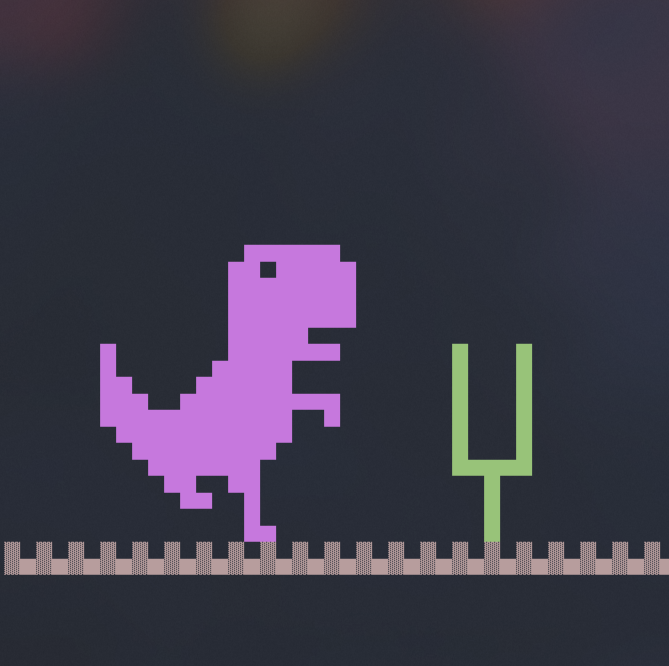
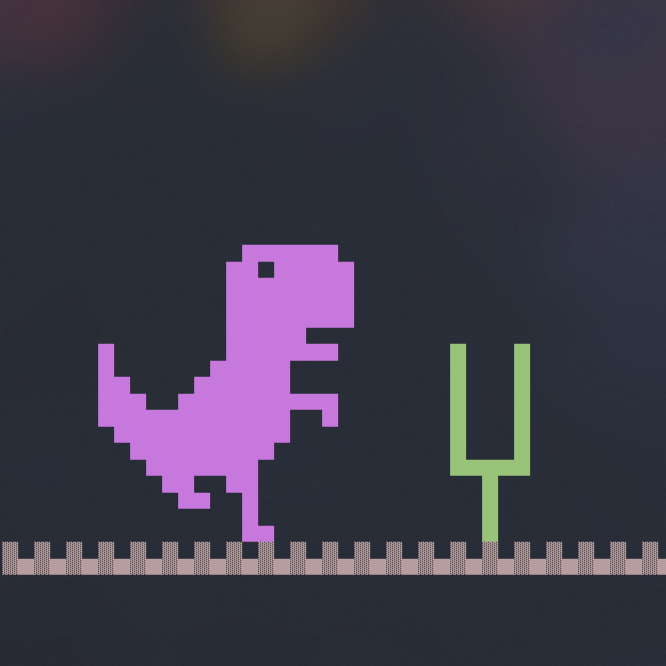
resize screenshots

Changed region(s): [[0.0, 0.8108, 0.5706, 0.8709], [0.7508, 0.8108, 0.991, 0.8709], [0.2402, 0.7207, 0.2703, 0.7508]]

diff --git a/README.md b/README.md
@@ -4,9 +4,9 @@ A simple **Chrome Dinosaur-inspired console game** written in C for Windows. Jum
 
 ## Screenshots
 
-| ![Game Screen](game.png) | ![Lobby Screen](lobby.png) |
-| ------------------------ | -------------------------- |
-| Game Screen              | Lobby Screen               |
+| ![Lobby Screen](lobby.png) | ![Game Screen](game.png) |
+| -------------------------- | ------------------------ |
+| Lobby Screen               | Game Screen              |
 
 ## Demo Video 🎬
 
